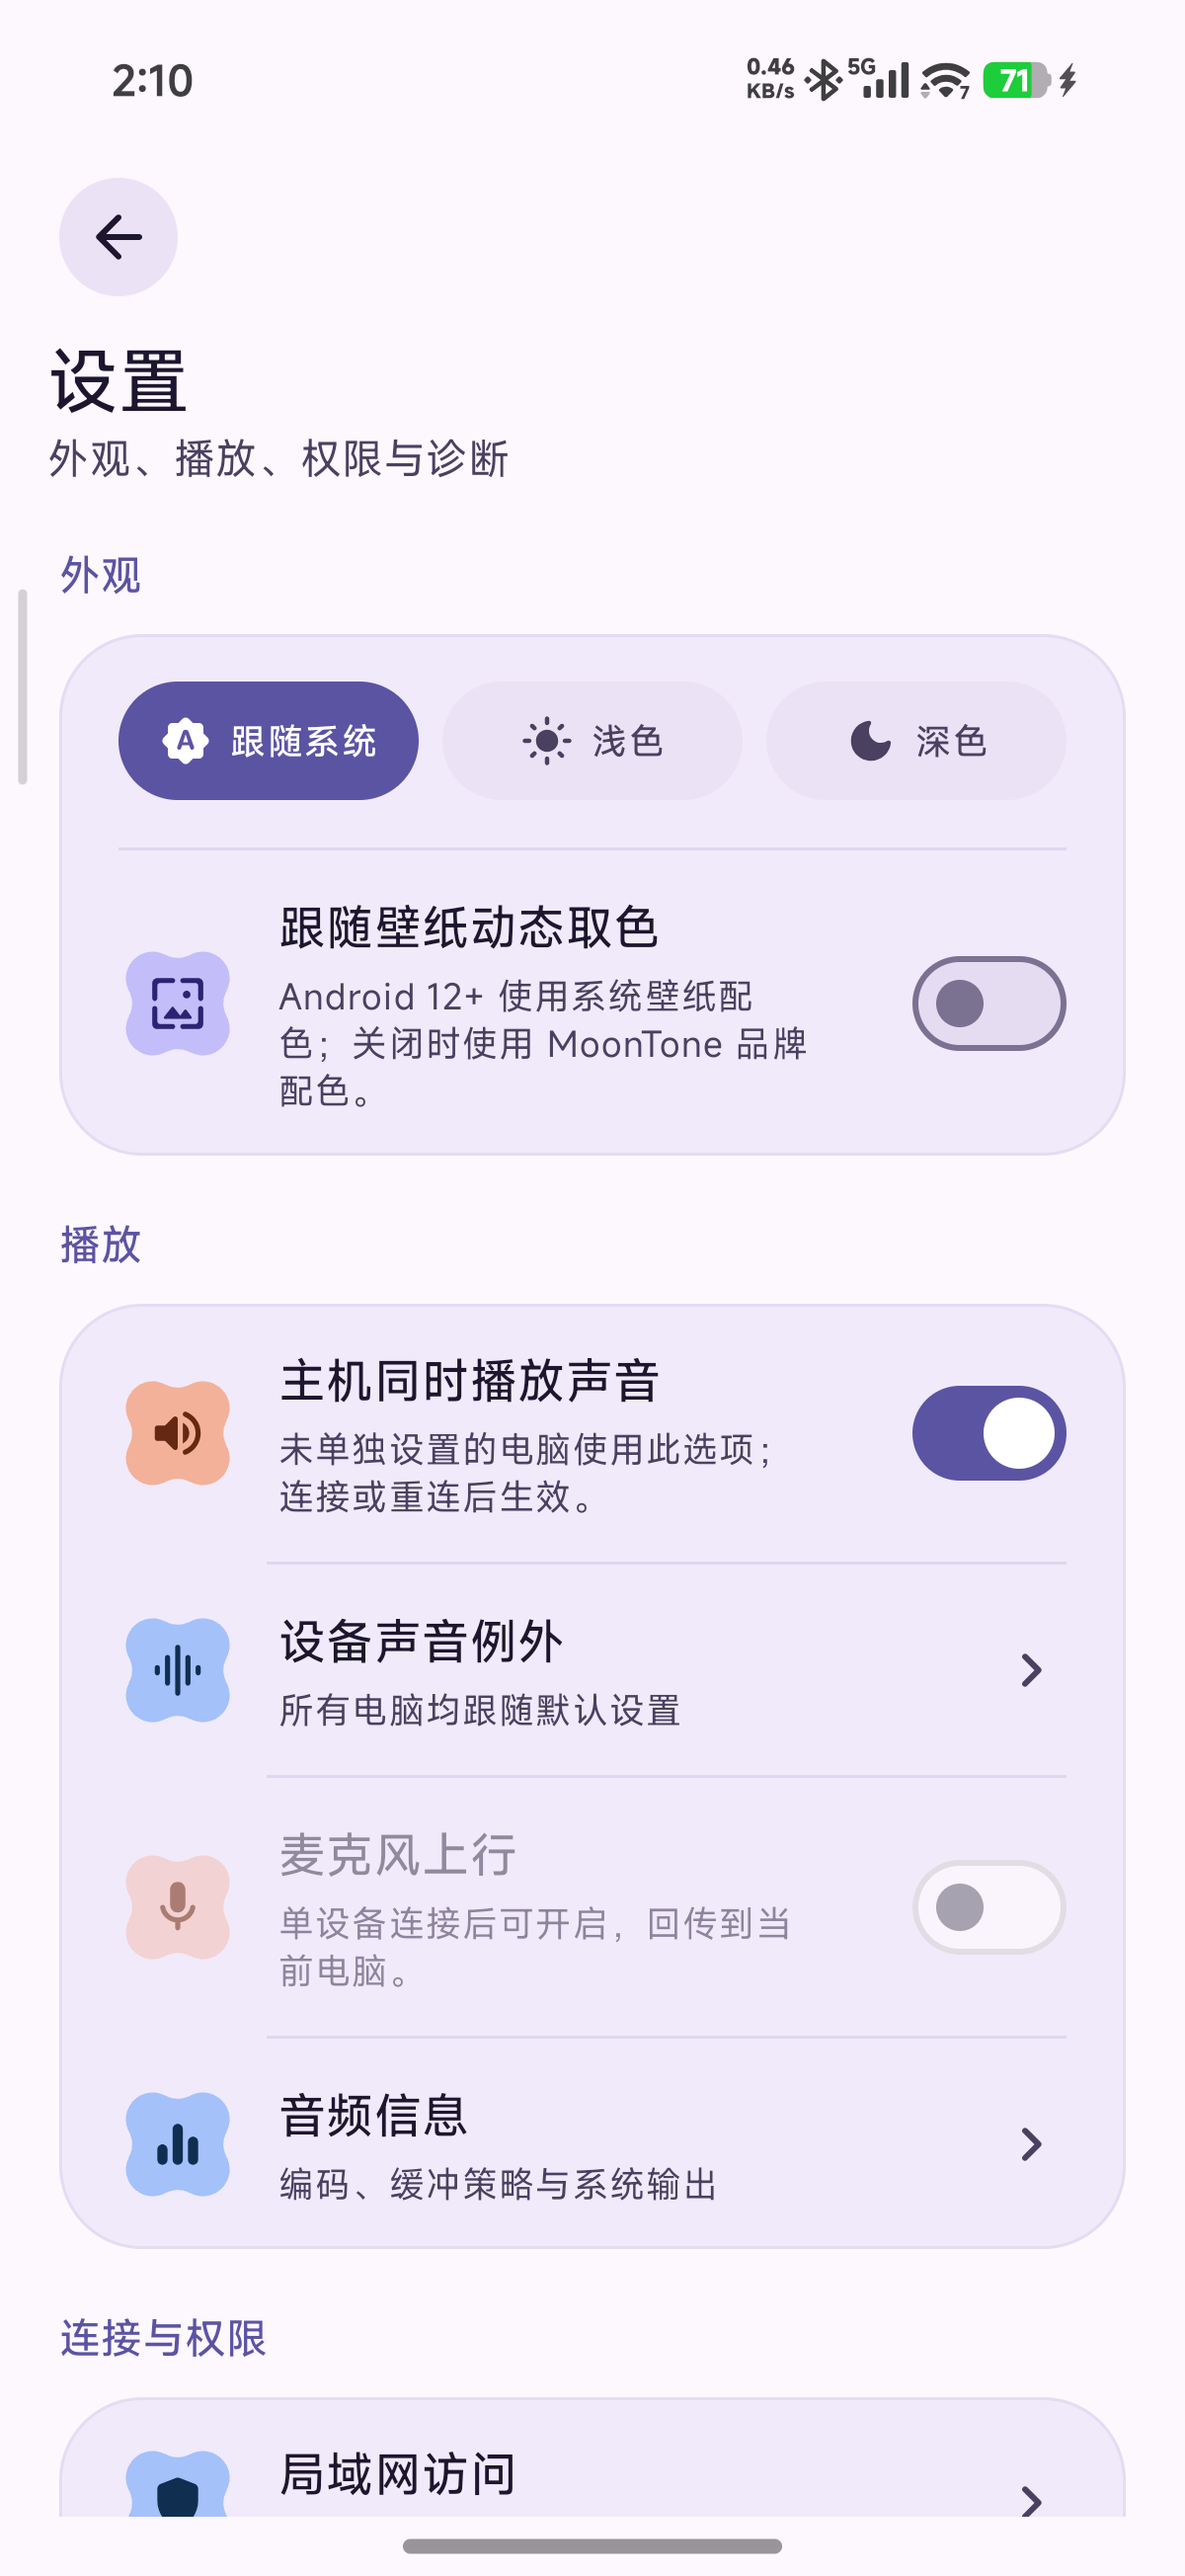
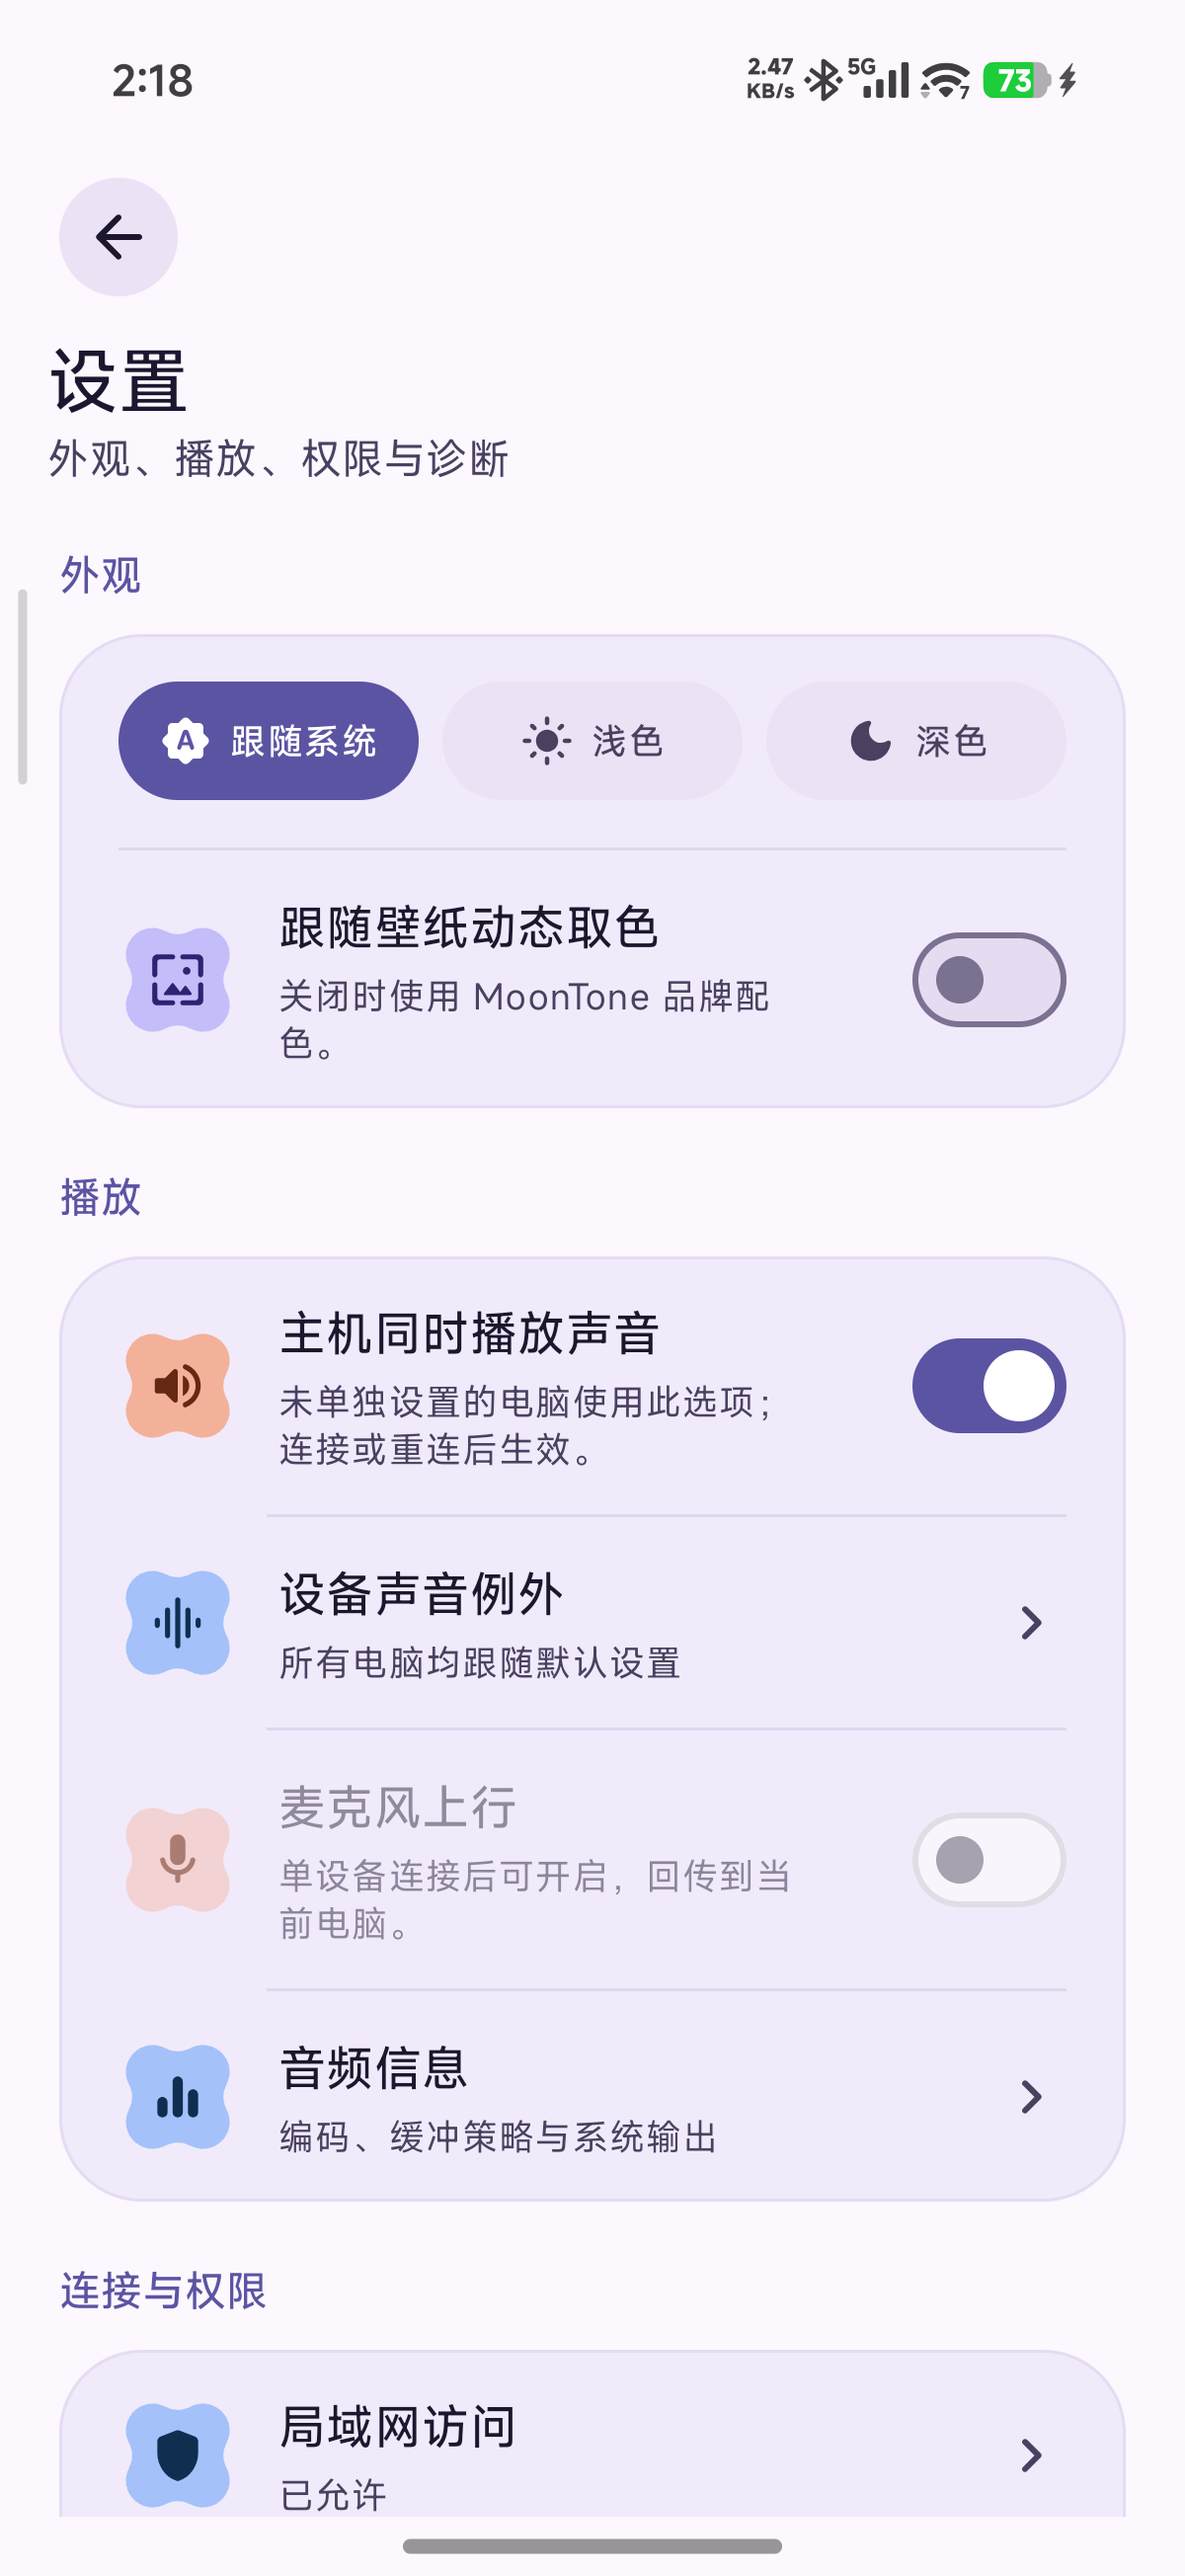
Enable wallpaper dynamic colour by default and simplify its description
- AppPreferences.dynamicColor now defaults to true (MoonToneTheme's own default
  also matches), so fresh installs follow the Material You wallpaper palette out
  of the box; turning the switch off falls back to the Aurora Night brand palette.
- The settings row no longer repeats what the option name already says
  ("Android 12+ 使用系统壁纸配色；"); it now reads "关闭时使用 MoonTone 品牌配色。"
- Verified the missing-preference path on device resolves to ON, then restored
  the user's saved value; docs/README updated; 34 JVM tests, lint 0 errors,
  debug+release builds pass.

diff --git a/echolink-app/app/src/main/java/com/halo/moontone/data/AppPreferences.kt b/echolink-app/app/src/main/java/com/halo/moontone/data/AppPreferences.kt
@@ -33,8 +33,8 @@ object AppPreferences {
         preferences(context).edit().putString(KEY_THEME_MODE, storageValue).apply()
     }
 
-    /** Follow the wallpaper's Material You palette instead of the MoonTone brand palette. */
-    fun dynamicColor(context: Context) = preferences(context).getBoolean(KEY_DYNAMIC_COLOR, false)
+    /** Follow the wallpaper's Material You palette instead of the MoonTone brand palette. On by default. */
+    fun dynamicColor(context: Context) = preferences(context).getBoolean(KEY_DYNAMIC_COLOR, true)
     fun setDynamicColor(context: Context, enabled: Boolean) {
         preferences(context).edit().putBoolean(KEY_DYNAMIC_COLOR, enabled).apply()
     }

diff --git a/echolink-app/app/src/main/java/com/halo/moontone/ui/SettingsScreen.kt b/echolink-app/app/src/main/java/com/halo/moontone/ui/SettingsScreen.kt
@@ -122,7 +122,7 @@ internal fun SettingsScreen(
                         CardDivider()
                         SettingsToggle(
                             title = "跟随壁纸动态取色",
-                            detail = "Android 12+ 使用系统壁纸配色；关闭时使用 MoonTone 品牌配色。",
+                            detail = "关闭时使用 MoonTone 品牌配色。",
                             checked = dynamicColor,
                             icon = Icons.Rounded.Wallpaper,
                             iconTint = MaterialTheme.colorScheme.primaryContainer,

diff --git a/echolink-app/app/src/main/java/com/halo/moontone/ui/theme/Theme.kt b/echolink-app/app/src/main/java/com/halo/moontone/ui/theme/Theme.kt
@@ -38,7 +38,7 @@ enum class ThemeMode(val storageValue: String) {
 @Composable
 fun MoonToneTheme(
     themeMode: ThemeMode = ThemeMode.SYSTEM,
-    dynamicColor: Boolean = false,
+    dynamicColor: Boolean = true,
     content: @Composable () -> Unit,
 ) {
     val context = LocalContext.current

diff --git a/docs/UI-REDESIGN.md b/docs/UI-REDESIGN.md
@@ -1,6 +1,6 @@
 # MoonTone UI Redesign — Material 3 Expressive
 
-> Status: implemented 2026-10-18, brand light/dark + optional dynamic colour verified on the
+> Status: implemented 2026-10-18, brand light/dark + dynamic colour verified on the
 > `moontone37` emulator (Android 17, 1080×2400); independent visual QA pass completed (no blockers).
 > Scope: Android app in `echolink-app/` (Jetpack Compose, material3 1.5.0-alpha29).
 > Ownership: see **File ownership** at the bottom so parallel work never touches the same file.
@@ -46,7 +46,8 @@ Rules:
 - Cards use `surfaceContainerLow`; sheets/dialogs `surfaceContainerHigh`; inputs `surfaceContainer`.
 - Status colour language: blue = connected/online/positive; coral/tertiary = attention
   (host audio exception, mic uplink); error roles only for real errors.
-- Dynamic colour (Material You) replaces the whole scheme when enabled in Settings → 外观.
+- Dynamic colour (Material You) replaces the whole scheme and is **on by default**;
+  it can be switched off in Settings → 外观 to use the brand palette.
 
 ## 3. Type
 
@@ -124,7 +125,7 @@ must reuse the components above for section headers, cards, icon badges, setting
 - `AppPreferences`: `themeMode(context)`, `setThemeMode(context, storageValue)`,
   `dynamicColor(context)`, `setDynamicColor(context, enabled)`.
 - Settings → 外观 group (implemented by ui-settings): theme mode choice
-  (跟随系统 / 浅色 / 深色) + 跟随壁纸动态取色 switch (Android 12+ only).
+  (跟随系统 / 浅色 / 深色) + 跟随壁纸动态取色 switch (Android 12+ only, on by default).
 
 ## 8. File ownership (avoid overlapping writes)
 

diff --git a/README.md b/README.md
@@ -28,7 +28,7 @@ Stream audio from multiple PCs to your Android phone at the same time, mix it on
 - Adaptive audio buffering for single-device playback and multi-device mixing
 - Audio format and system output information
 - Microphone uplink (UDP 48100 back to PC)
-- Material 3 Expressive redesign: Aurora Night palette, expressive type/shape/motion, brand light+dark themes, optional Material You dynamic colours & theme mode
+- Material 3 Expressive redesign: Aurora Night palette, expressive type/shape/motion, brand light+dark themes, Material You dynamic colours (on by default) & theme mode
 - In-app update check (GitHub Releases, prompts on new version)
 
 ## Architecture
@@ -135,7 +135,7 @@ python3 tools/mic_receiver.py
 - 单设备播放自动调节延迟缓冲
 - 实时音质规格显示
 - 麦克风上行（UDP 48100 回传 PC）
-- Material 3 Expressive 全新视觉：极光夜色配色、表现力字体/形状/动效、品牌浅色+深色主题，可选 Material You 动态取色与主题模式
+- Material 3 Expressive 全新视觉：极光夜色配色、表现力字体/形状/动效、品牌浅色+深色主题，Material You 动态取色（默认开启）与主题模式
 - 应用内自动检查更新（GitHub Releases，新版本弹窗提示）
 
 ## 架构
